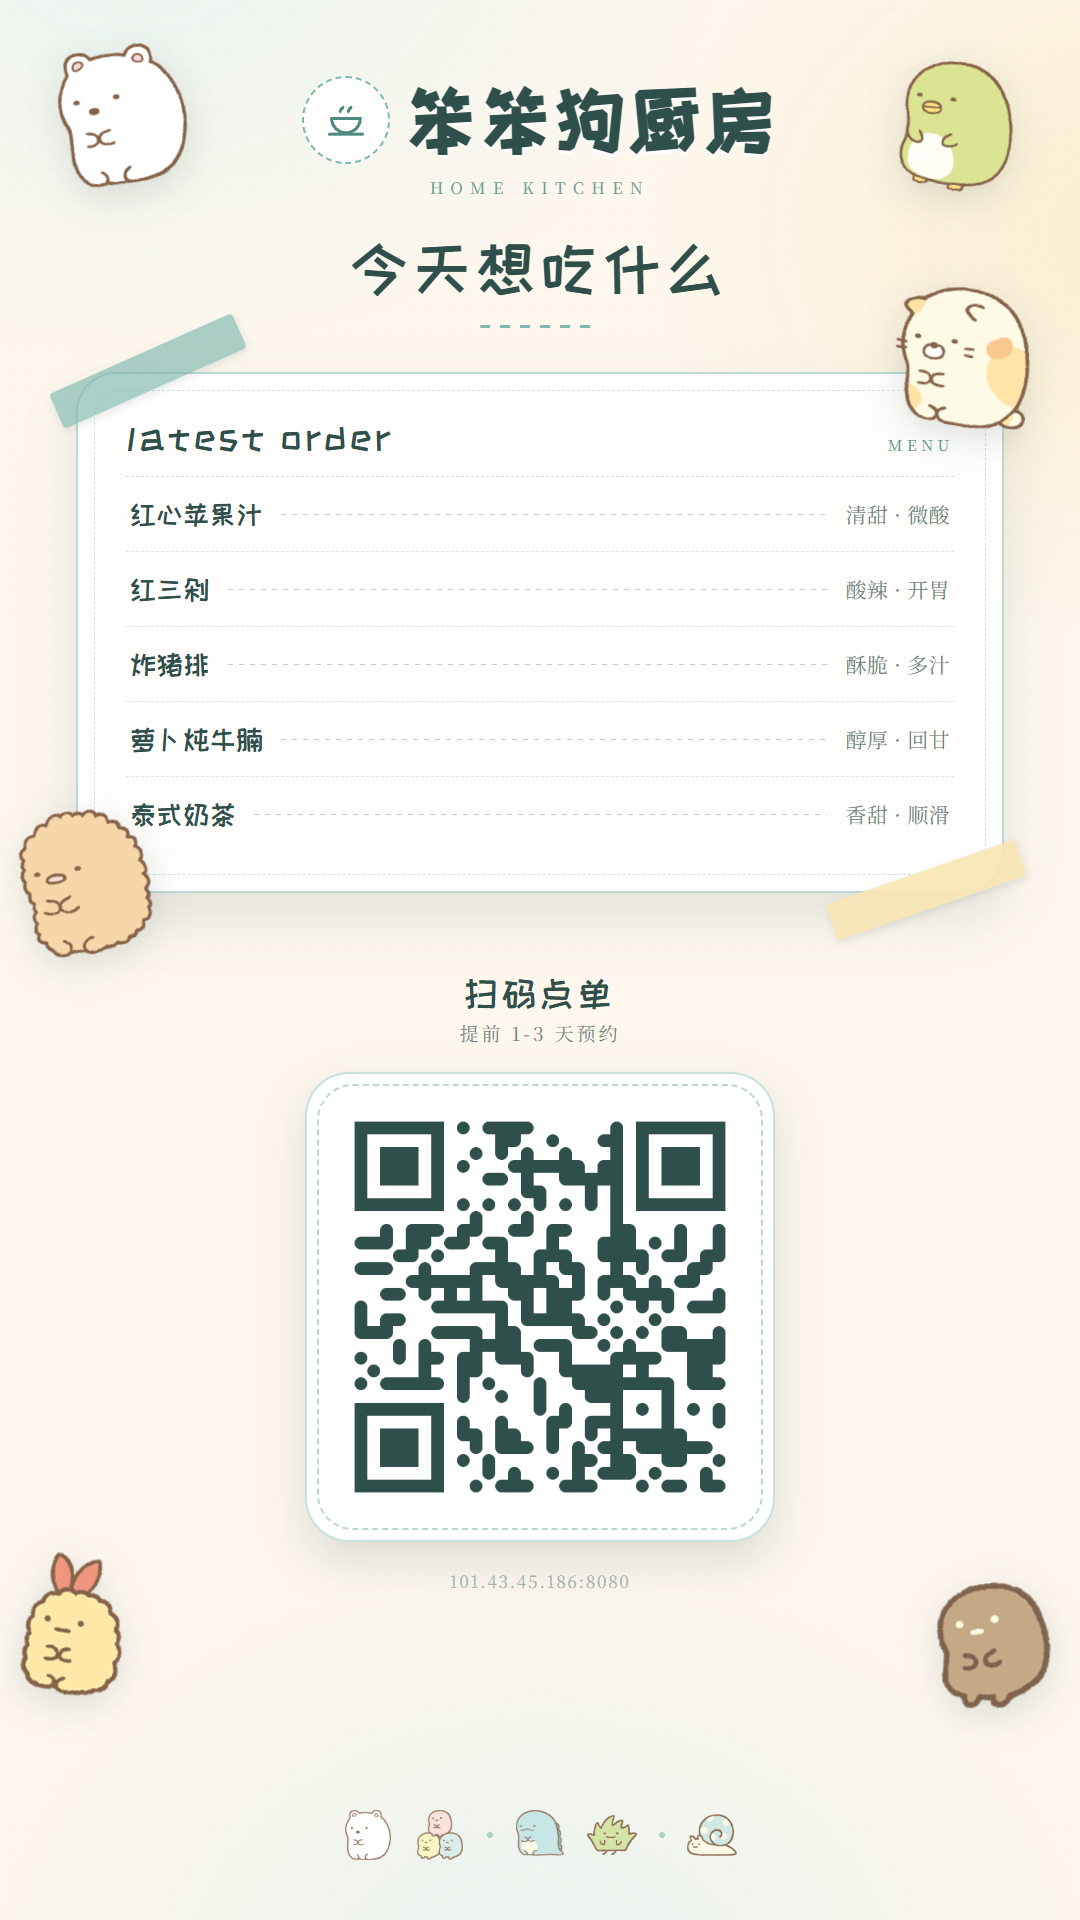
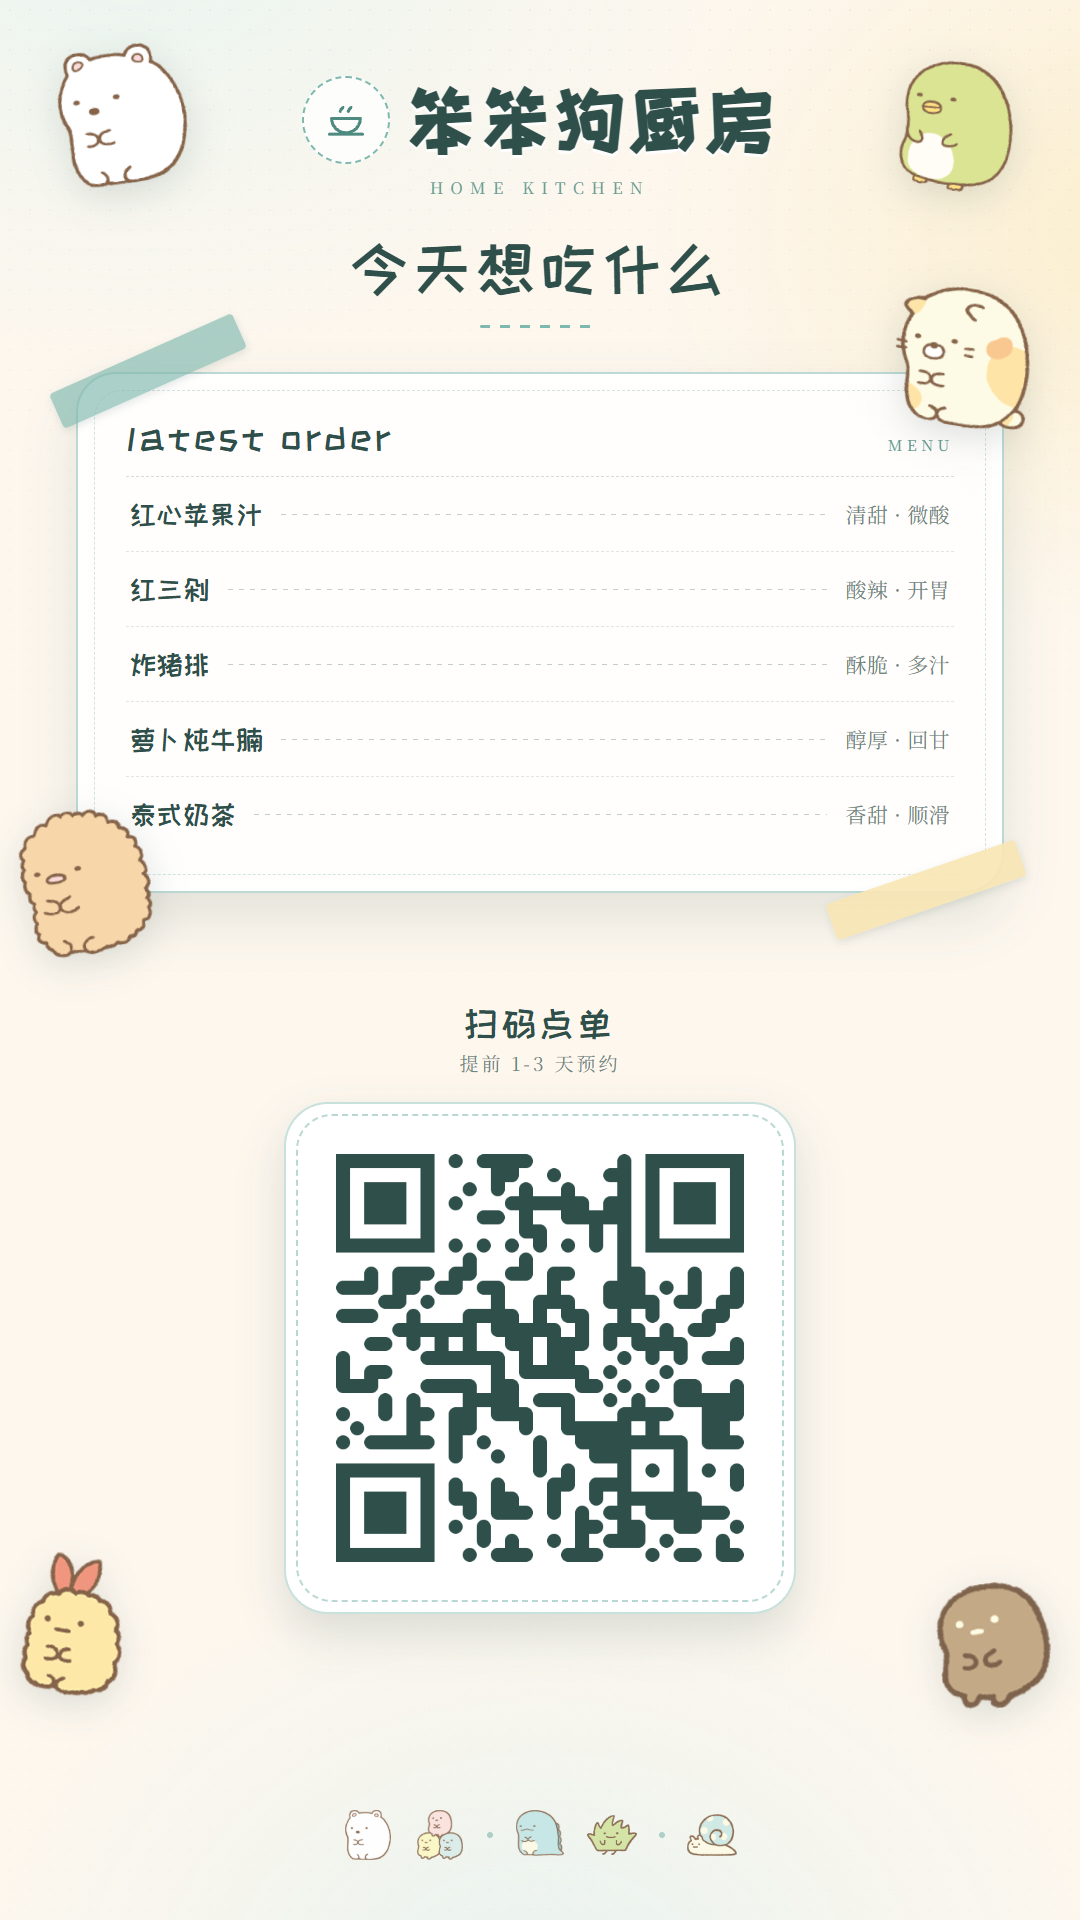
海报去掉公网IP与端口；竖版二维码放大到512、整体下移

Changed region(s): [[0.2444, 0.5, 0.7333, 0.8438]]

diff --git a/share/poster-vertical-server.html b/share/poster-vertical-server.html
@@ -105,11 +105,11 @@
   .sk-board-katsu{width:128px;left:-54px;bottom:-62px;transform:rotate(-9deg);z-index:4}
 
   /* ---------- 底部二维码 ---------- */
-  .qr-zone{margin-top:82px;padding-top:0;flex:0 0 auto;display:flex;flex-direction:column;align-items:center;text-align:center}
+  .qr-zone{margin-top:112px;padding-top:0;flex:0 0 auto;display:flex;flex-direction:column;align-items:center;text-align:center}
   .qr-tip{font-family:var(--round);font-size:36px;letter-spacing:.14em;color:var(--ink)}
   .qr-sub{margin-top:8px;font-size:19px;letter-spacing:.16em;color:var(--ink-soft)}
   .qr-card{
-    position:relative;margin-top:26px;width:470px;height:470px;border-radius:44px;
+    position:relative;margin-top:26px;width:512px;height:512px;border-radius:44px;
     background:#fff;padding:22px;border:2.5px solid rgba(127,184,174,.42);
     box-shadow:0 20px 44px rgba(47,79,74,.16);
   }
@@ -189,7 +189,7 @@
     <div class="qr-card">
       <img src="qr-server.png" alt="扫码看菜单" />
     </div>
-    <div class="addr">101.43.45.186:8080</div>
+    
   </section>
 
   <footer class="foot">

diff --git a/share/poster-qr-card.html b/share/poster-qr-card.html
@@ -110,7 +110,7 @@
     </div>
   </div>
 
-  <div class="addr">101.43.45.186:8080</div>
+  
 
 </div>
 </body>
